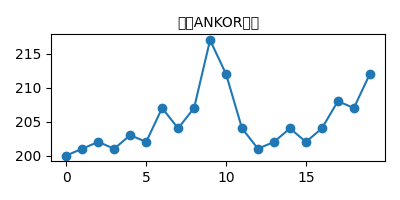
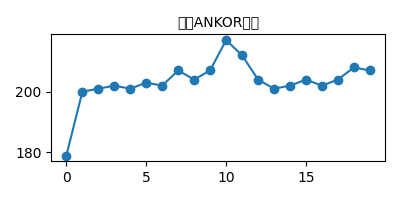
deploy: bb1060463c2d91ffb48bd77c552e17ba040cb615

diff --git a/reports/2026-03-05.html b/reports/2026-03-05.html
@@ -1,0 +1,48 @@
+
+    <html><head><meta charset='UTF-8'><title>2026-03-05 단타 분석 리포트</title>
+    <style>
+        body { font-family: Arial; padding: 30px; }
+        table { border-collapse: collapse; width: 100%; font-size: 13px; }
+        th, td { border: 1px solid #ccc; padding: 5px; text-align: center; }
+        img.chart { height: 80px; }
+    </style></head><body>
+    <h2>📊 오늘의 국내 증시 / 세계 경제 요약</h2><ul>
+        <li>KOSPI: 5,583.90</li>
+        <li>KOSDAQ: 1,116.41</li>
+        <li>환율 (USD/KRW): 1,464.60</li>
+        <li>환율 (CAD/KRW): 1,073.70</li>
+    </ul>
+
+    <h2>🪙 오늘의 코인 경제 요약</h2><ul>
+        <li>Bitcoin: $72198 (4.83% 변화)</li>
+        <li>Ethereum: $2117.75 (5.66% 변화)</li>
+    </ul>
+
+    <h2>🌍 주요 경제 뉴스 요약</h2><ul>
+    <li><a href='https://www.mk.co.kr/news/business/11979830' target='_blank'>[매일경제] 서울창경-경기창경 컨소시엄, ‘로컬창업 육성’ 주관기관 선정 글로벌과 LIPS 연계로 스케일업 가속화</a></li><li><a href='https://www.mk.co.kr/news/politics/11979829' target='_blank'>[매일경제] K자본시장특위, 스튜어드십코드 이행 실태 점검나서</a></li><li><a href='https://www.mk.co.kr/news/business/11979827' target='_blank'>[매일경제] “대충 둬도 예술이네”…LG 사운드 스위트, 소파 끝에 누워도 ‘명당’ [현장]</a></li><li><a href='#' target='_blank'>[한국경제] 현재 뉴스 없음</a></li><li><a href='#' target='_blank'>[한국경제] 현재 뉴스 없음</a></li><li><a href='#' target='_blank'>[한국경제] 현재 뉴스 없음</a></li><li><a href='#' target='_blank'>[연합뉴스] 현재 뉴스 없음</a></li><li><a href='#' target='_blank'>[연합뉴스] 현재 뉴스 없음</a></li><li><a href='#' target='_blank'>[연합뉴스] 현재 뉴스 없음</a></li><li><a href='https://www.bloomberg.com/news/articles/2026-03-04/record-market-meltdown-clouds-k-bank-debut-after-rare-korea-ipo' target='_blank'>[Bloomberg] K Bank Share Pop Fizzles in Debut on Volatile Korean Market</a></li><li><a href='https://www.bloomberg.com/news/articles/2026-03-05/korean-stocks-rebound-as-chipmakers-gain-after-record-selloff' target='_blank'>[Bloomberg] Korean Stocks Surge by Most Since 2008 in Roller Coaster Week</a></li><li><a href='https://www.bloomberg.com/news/videos/2026-03-05/why-india-is-in-a-bind-after-torpedo-strike-video' target='_blank'>[Bloomberg] Why a US Torpedo Strike Sinking an Iranian Warship Puts India in a Bind</a></li><li><a href='#' target='_blank'>[Reuters] 현재 뉴스 없음</a></li><li><a href='#' target='_blank'>[Reuters] 현재 뉴스 없음</a></li><li><a href='#' target='_blank'>[Reuters] 현재 뉴스 없음</a></li><li><a href='https://www.cnbc.com/2026/03/05/iran-conflict-duration-middle-east-regional-war-experts.html' target='_blank'>[CNBC] The U.S. insists the Iran conflict won't be a 'forever war.' Experts beg to differ</a></li><li><a href='https://www.cnbc.com/2026/03/05/private-credit-blackstone-blue-owl-kkr-carlyle-retail-wealth-investors-liquid.html' target='_blank'>[CNBC] Investors poured billions into private credit. Now many want their money back</a></li><li><a href='https://www.cnbc.com/2026/03/05/european-markets-stoxx-600-ftse-dax-cac-iran-latest.html' target='_blank'>[CNBC] European markets head for another mixed open as war unsettles traders</a></li></ul>
+    <h2>📈 추천 주식 30선</h2>
+    <table>
+    <tr>
+    <th>순위</th><th>종목</th><th>현재가</th><th>등락률</th><th>거래량</th>
+    <th>RSI</th><th>MACD</th><th>볼린저위치</th><th>스토캐스틱 %K</th><th>이격도</th>
+    <th>캔들패턴</th><th>추천</th><th>매수전 확인 포인트</th>
+    </tr>
+
+    <tr style='background:#f2f2f2; font-size:12px;'>
+    <td colspan='5'>지표 기준</td>
+    <td>과매도 <30 / 정상 50 / 과매수 >70</td>
+    <td>골든=상승 / 데드=하락</td>
+    <td>상단=강세 / 하단=반등</td>
+    <td><20 과매도 / >80 과매수</td>
+    <td>95~105 정상</td>
+    <td>망치=반등 / 역망치=하락</td>
+    <td colspan='2'>참고용</td>
+    </tr>
+    <tr><td>1</td><td><a href='https://finance.naver.com/item/main.nhn?code=550092' target='_blank'>N2 월간 레버리지 방위산업 Top5 ETN</a></td><td>279,480</td><td>35.00%</td><td>278,035</td><td>64.95</td><td style='background:#f8e6f8'>골든</td><td style='background:#e6f2ff'>상단 돌파</td><td style='background:none'>63.1</td><td style='background:#e6f2ff'>141.32</td><td style='background:none'>일반형</td><td style='background:#ffcccc'>🚀 Strong Buy</td><td>MACD 골든크로스 → 상승 전환 신호 / 이격도 과열 → 조정 우려</td></tr><tr><td>2</td><td><a href='https://finance.naver.com/item/main.nhn?code=488080' target='_blank'>TIGER 반도체TOP10레버리지</a></td><td>45,920</td><td>33.01%</td><td>45,905</td><td>59.77</td><td style='background:#f8e6f8'>골든</td><td style='background:none'>중앙 부근</td><td style='background:none'>60.7</td><td style='background:#e6f2ff'>119.02</td><td style='background:none'>일반형</td><td style='background:#ffcccc'>🚀 Strong Buy</td><td>MACD 골든크로스 → 상승 전환 신호 / 이격도 과열 → 조정 우려</td></tr><tr><td>3</td><td><a href='https://finance.naver.com/item/main.nhn?code=760013' target='_blank'>키움 레버리지 반도체TOP10 ETN</a></td><td>107,300</td><td>31.32%</td><td>107,300</td><td>59.24</td><td style='background:#f8e6f8'>골든</td><td style='background:none'>중앙 부근</td><td style='background:none'>58.2</td><td style='background:#e6f2ff'>117.04</td><td style='background:none'>일반형</td><td style='background:#ffe6f0'>✅ Buy</td><td>MACD 골든크로스 → 상승 전환 신호 / 이격도 과열 → 조정 우려</td></tr><tr><td>4</td><td><a href='https://finance.naver.com/item/main.nhn?code=700034' target='_blank'>하나 레버리지 K방산TOP10 ETN</a></td><td>29,045</td><td>31.10%</td><td>28,985</td><td>59.41</td><td style='background:#f8e6f8'>골든</td><td style='background:none'>중앙 부근</td><td style='background:none'>40.8</td><td style='background:#e6f2ff'>116.88</td><td style='background:none'>일반형</td><td style='background:#ffcccc'>🚀 Strong Buy</td><td>MACD 골든크로스 → 상승 전환 신호 / 이격도 과열 → 조정 우려</td></tr><tr><td>5</td><td><a href='https://finance.naver.com/item/main.nhn?code=272210' target='_blank'>한화시스템</a></td><td>150,800</td><td>30.00%</td><td>150,800</td><td>67.6</td><td style='background:#f8e6f8'>골든</td><td style='background:#e6f2ff'>상단 돌파</td><td style='background:none'>60.6</td><td style='background:#e6f2ff'>133.45</td><td style='background:none'>일반형</td><td style='background:#ffcccc'>🚀 Strong Buy</td><td>MACD 골든크로스 → 상승 전환 신호 / 이격도 과열 → 조정 우려</td></tr><tr><td>6</td><td><a href='https://finance.naver.com/item/main.nhn?code=45226K' target='_blank'>한화갤러리아우</a></td><td>7,670</td><td>30.00%</td><td>7,670</td><td>34.94</td><td style='background:#e6f2ff'>데드</td><td style='background:none'>중앙 부근</td><td style='background:none'>28.4</td><td style='background:#f8e6f8'>78.19</td><td style='background:none'>일반형</td><td>⚠ Hold</td><td>이격도 과매도 → 저점 접근</td></tr><tr><td>7</td><td><a href='https://finance.naver.com/item/main.nhn?code=085620' target='_blank'>미래에셋생명</a></td><td>13,570</td><td>29.98%</td><td>13,570</td><td>64.16</td><td style='background:#f8e6f8'>골든</td><td style='background:none'>중앙 부근</td><td style='background:none'>46.5</td><td style='background:#e6f2ff'>122.07</td><td style='background:none'>일반형</td><td style='background:#ffcccc'>🚀 Strong Buy</td><td>MACD 골든크로스 → 상승 전환 신호 / 이격도 과열 → 조정 우려</td></tr><tr><td>8</td><td><a href='https://finance.naver.com/item/main.nhn?code=500071' target='_blank'>신한 레버리지 코스닥 150 선물 ETN</a></td><td>57,225</td><td>29.88%</td><td>56,730</td><td>47.82</td><td style='background:#e6f2ff'>데드</td><td style='background:none'>중앙 부근</td><td style='background:none'>36.6</td><td style='background:#f8e6f8'>92.75</td><td style='background:none'>일반형</td><td>⚠ Hold</td><td>이격도 과매도 → 저점 접근</td></tr><tr><td>9</td><td><a href='https://finance.naver.com/item/main.nhn?code=152550' target='_blank'>한국ANKOR유전</a></td><td>470</td><td>29.83%</td><td>470</td><td style='background:#e6f2ff'>80.78</td><td style='background:#f8e6f8'>골든</td><td style='background:#e6f2ff'>상단 돌파</td><td style='background:#e6f2ff'>100.0</td><td style='background:#e6f2ff'>196.57</td><td style='background:none'>일반형</td><td style='background:#ffcccc'>🚀 Strong Buy</td><td>RSI 과매수 → 매도 주의 / MACD 골든크로스 → 상승 전환 신호 / 스토캐스틱 과매수 → 매도 신호 / 이격도 과열 → 조정 우려</td></tr><tr><td>10</td><td><a href='https://finance.naver.com/item/main.nhn?code=015260' target='_blank'>에이엔피</a></td><td>562</td><td>29.79%</td><td>562</td><td>57.13</td><td style='background:#f8e6f8'>골든</td><td style='background:none'>중앙 부근</td><td style='background:none'>47.6</td><td style='background:#e6f2ff'>117.38</td><td style='background:none'>일반형</td><td style='background:#ffcccc'>🚀 Strong Buy</td><td>MACD 골든크로스 → 상승 전환 신호 / 이격도 과열 → 조정 우려</td></tr><tr><td>11</td><td><a href='https://finance.naver.com/item/main.nhn?code=0100K0' target='_blank'>KODEX 방산TOP10레버리지</a></td><td>15,880</td><td>29.69%</td><td>15,880</td><td>58.9</td><td style='background:#f8e6f8'>골든</td><td style='background:none'>중앙 부근</td><td style='background:none'>34.6</td><td style='background:#e6f2ff'>116.41</td><td style='background:none'>일반형</td><td style='background:#ffcccc'>🚀 Strong Buy</td><td>MACD 골든크로스 → 상승 전환 신호 / 이격도 과열 → 조정 우려</td></tr><tr><td>12</td><td><a href='https://finance.naver.com/item/main.nhn?code=494310' target='_blank'>KODEX 반도체레버리지</a></td><td>72,400</td><td>29.25%</td><td>72,385</td><td>59.47</td><td style='background:#f8e6f8'>골든</td><td style='background:none'>중앙 부근</td><td style='background:none'>60.7</td><td style='background:#e6f2ff'>116.43</td><td style='background:none'>일반형</td><td style='background:#ffcccc'>🚀 Strong Buy</td><td>MACD 골든크로스 → 상승 전환 신호 / 이격도 과열 → 조정 우려</td></tr><tr><td>13</td><td><a href='https://finance.naver.com/item/main.nhn?code=580043' target='_blank'>KB 레버리지 KOSDAQ 150 선물 ETN</a></td><td>56,845</td><td>29.25%</td><td>56,295</td><td>46.98</td><td style='background:#e6f2ff'>데드</td><td style='background:none'>중앙 부근</td><td style='background:none'>43.5</td><td style='background:#f8e6f8'>94.13</td><td style='background:none'>일반형</td><td>⚠ Hold</td><td>이격도 과매도 → 저점 접근</td></tr><tr><td>14</td><td><a href='https://finance.naver.com/item/main.nhn?code=291630' target='_blank'>KIWOOM 코스닥150선물레버리지</a></td><td>8,395</td><td>28.86%</td><td>8,390</td><td>47.17</td><td style='background:#e6f2ff'>데드</td><td style='background:none'>중앙 부근</td><td style='background:none'>43.2</td><td style='background:#f8e6f8'>94.0</td><td style='background:#f8e6f8'>망치형(반등 신호)</td><td>⚠ Hold</td><td>이격도 과매도 → 저점 접근 / 캔들패턴 반등 신호</td></tr><tr><td>15</td><td><a href='https://finance.naver.com/item/main.nhn?code=278240' target='_blank'>RISE 코스닥150선물레버리지</a></td><td>18,820</td><td>28.64%</td><td>18,790</td><td>46.94</td><td style='background:#e6f2ff'>데드</td><td style='background:none'>중앙 부근</td><td style='background:none'>42.3</td><td style='background:#f8e6f8'>93.51</td><td style='background:none'>일반형</td><td>⚠ Hold</td><td>이격도 과매도 → 저점 접근</td></tr><tr><td>16</td><td><a href='https://finance.naver.com/item/main.nhn?code=306530' target='_blank'>HANARO 코스닥150선물레버리지</a></td><td>16,785</td><td>28.33%</td><td>16,785</td><td>46.9</td><td style='background:#e6f2ff'>데드</td><td style='background:none'>중앙 부근</td><td style='background:none'>43.9</td><td style='background:#f8e6f8'>93.63</td><td style='background:none'>일반형</td><td>⚠ Hold</td><td>이격도 과매도 → 저점 접근</td></tr><tr><td>17</td><td><a href='https://finance.naver.com/item/main.nhn?code=550097' target='_blank'>N2 레버리지 코스닥150 선물 ETN</a></td><td>40,745</td><td>27.91%</td><td>40,630</td><td>47.96</td><td style='background:#e6f2ff'>데드</td><td style='background:none'>중앙 부근</td><td style='background:none'>41.3</td><td style='background:#f8e6f8'>93.19</td><td style='background:none'>일반형</td><td>⚠ Hold</td><td>이격도 과매도 → 저점 접근</td></tr><tr><td>18</td><td><a href='https://finance.naver.com/item/main.nhn?code=570081' target='_blank'>한투 레버리지 코스닥150선물 ETN</a></td><td>56,850</td><td>27.72%</td><td>56,410</td><td>46.59</td><td style='background:#e6f2ff'>데드</td><td style='background:none'>중앙 부근</td><td style='background:none'>42.8</td><td style='background:#f8e6f8'>93.28</td><td style='background:none'>일반형</td><td>⚠ Hold</td><td>이격도 과매도 → 저점 접근</td></tr><tr><td>19</td><td><a href='https://finance.naver.com/item/main.nhn?code=700028' target='_blank'>하나 레버리지 반도체 ETN</a></td><td>165,505</td><td>27.31%</td><td>163,785</td><td>59.21</td><td style='background:#f8e6f8'>골든</td><td style='background:none'>중앙 부근</td><td style='background:none'>62.6</td><td style='background:#e6f2ff'>116.12</td><td style='background:none'>일반형</td><td style='background:#ffe6f0'>✅ Buy</td><td>MACD 골든크로스 → 상승 전환 신호 / 이격도 과열 → 조정 우려</td></tr><tr><td>20</td><td><a href='https://finance.naver.com/item/main.nhn?code=520056' target='_blank'>미래에셋 레버리지 코스닥150 선물 ETN</a></td><td>55,585</td><td>27.26%</td><td>55,585</td><td>46.34</td><td style='background:#e6f2ff'>데드</td><td style='background:none'>중앙 부근</td><td style='background:none'>40.0</td><td style='background:#f8e6f8'>92.28</td><td style='background:none'>일반형</td><td>⚠ Hold</td><td>이격도 과매도 → 저점 접근</td></tr><tr><td>21</td><td><a href='https://finance.naver.com/item/main.nhn?code=700017' target='_blank'>하나 레버리지 코스닥150 선물 ETN</a></td><td>56,620</td><td>27.26%</td><td>56,620</td><td>46.63</td><td style='background:#e6f2ff'>데드</td><td style='background:none'>중앙 부근</td><td style='background:none'>40.8</td><td style='background:#f8e6f8'>92.86</td><td style='background:none'>일반형</td><td>⚠ Hold</td><td>이격도 과매도 → 저점 접근</td></tr><tr><td>22</td><td><a href='https://finance.naver.com/item/main.nhn?code=233160' target='_blank'>TIGER 코스닥150 레버리지</a></td><td>18,500</td><td>26.80%</td><td>18,500</td><td>46.82</td><td style='background:#e6f2ff'>데드</td><td style='background:none'>중앙 부근</td><td style='background:none'>41.4</td><td style='background:#f8e6f8'>93.38</td><td style='background:none'>일반형</td><td>⚠ Hold</td><td>이격도 과매도 → 저점 접근</td></tr><tr><td>23</td><td><a href='https://finance.naver.com/item/main.nhn?code=0104G0' target='_blank'>PLUS K방산레버리지</a></td><td>15,950</td><td>26.69%</td><td>15,950</td><td>59.47</td><td style='background:#f8e6f8'>골든</td><td style='background:none'>중앙 부근</td><td style='background:none'>41.7</td><td style='background:#e6f2ff'>117.32</td><td style='background:none'>일반형</td><td style='background:#ffcccc'>🚀 Strong Buy</td><td>MACD 골든크로스 → 상승 전환 신호 / 이격도 과열 → 조정 우려</td></tr><tr><td>24</td><td><a href='https://finance.naver.com/item/main.nhn?code=530106' target='_blank'>삼성 레버리지 코스닥150 선물 ETN</a></td><td>56,955</td><td>26.40%</td><td>56,860</td><td>47.5</td><td style='background:#e6f2ff'>데드</td><td style='background:none'>중앙 부근</td><td style='background:none'>44.9</td><td style='background:#f8e6f8'>94.59</td><td style='background:none'>일반형</td><td>⚠ Hold</td><td>이격도 과매도 → 저점 접근</td></tr><tr><td>25</td><td><a href='https://finance.naver.com/item/main.nhn?code=233740' target='_blank'>KODEX 코스닥150레버리지</a></td><td>16,725</td><td>25.75%</td><td>16,720</td><td>46.97</td><td style='background:#e6f2ff'>데드</td><td style='background:none'>중앙 부근</td><td style='background:none'>42.2</td><td style='background:#f8e6f8'>93.67</td><td style='background:none'>일반형</td><td>⚠ Hold</td><td>이격도 과매도 → 저점 접근</td></tr><tr><td>26</td><td><a href='https://finance.naver.com/item/main.nhn?code=550089' target='_blank'>N2 월간 레버리지 코스피 200 선물 ETN</a></td><td>96,305</td><td>25.29%</td><td>93,235</td><td>56.44</td><td style='background:#e6f2ff'>데드</td><td style='background:none'>중앙 부근</td><td style='background:none'>44.9</td><td style='background:none'>104.28</td><td style='background:none'>일반형</td><td>⚠ Hold</td><td>중립: 추세 확인 필요</td></tr><tr><td>27</td><td><a href='https://finance.naver.com/item/main.nhn?code=003160' target='_blank'>디아이</a></td><td>33,800</td><td>24.72%</td><td>33,800</td><td>43.0</td><td style='background:#e6f2ff'>데드</td><td style='background:none'>중앙 부근</td><td style='background:none'>59.5</td><td style='background:none'>98.98</td><td style='background:none'>일반형</td><td>⚠ Hold</td><td>중립: 추세 확인 필요</td></tr><tr><td>28</td><td><a href='https://finance.naver.com/item/main.nhn?code=760023' target='_blank'>키움 레버리지 K방산 TOP5 ETN</a></td><td>32,875</td><td>24.67%</td><td>32,730</td><td>58.61</td><td style='background:#f8e6f8'>골든</td><td style='background:none'>중앙 부근</td><td style='background:none'>36.1</td><td style='background:#e6f2ff'>113.1</td><td style='background:none'>일반형</td><td style='background:#ffcccc'>🚀 Strong Buy</td><td>MACD 골든크로스 → 상승 전환 신호 / 이격도 과열 → 조정 우려</td></tr><tr><td>29</td><td><a href='https://finance.naver.com/item/main.nhn?code=760015' target='_blank'>키움 레버리지 바이오TOP10 ETN</a></td><td>21,710</td><td>24.41%</td><td>21,690</td><td>49.04</td><td style='background:#e6f2ff'>데드</td><td style='background:none'>중앙 부근</td><td style='background:none'>43.0</td><td style='background:none'>95.36</td><td style='background:#f8e6f8'>망치형(반등 신호)</td><td>⚠ Hold</td><td>캔들패턴 반등 신호</td></tr><tr><td>30</td><td><a href='https://finance.naver.com/item/main.nhn?code=261060' target='_blank'>TIGER 코스닥150IT</a></td><td>25,995</td><td>24.38%</td><td>25,465</td><td>57.71</td><td style='background:#e6f2ff'>데드</td><td style='background:#e6f2ff'>상단 돌파</td><td style='background:#e6f2ff'>90.1</td><td style='background:#e6f2ff'>110.63</td><td style='background:none'>일반형</td><td style='background:#ffe6f0'>✅ Buy</td><td>스토캐스틱 과매수 → 매도 신호 / 이격도 과열 → 조정 우려</td></tr></table>
+    <h2>🕗 장전 시간외 거래 전략 (08:30~08:40)</h2>
+    <ul>
+        <li><b>① 전일 고가 이상 시가 + 거래량 증가:</b> 갭상승 후 눌림 매수 가능성 ↑</li>
+        <li><b>② 시가가 전일 종가 이하 + 거래량 미미:</b> 매수 보류</li>
+        <li><b>③ 시가 = 전일 종가 ±1% + 거래량 급증:</b> 돌파 가능성 높음</li>
+    </ul>
+    <h2>🪙 추천 코인 20선</h2><table><tr><th>이름</th><th>기호</th><th>가격</th><th>등락률</th><th>거래량</th><th>점수</th><th>추천</th><th>아이콘</th></tr><tr><td><a href='https://coinmarketcap.com/currencies/tether/' target='_blank'>Tether</a></td><td>USDT</td><td>$1.00</td><td>0.01%</td><td>$123024.0M</td><td>3</td><td>✅ Buy</td><td><img src='https://coin-images.coingecko.com/coins/images/325/large/Tether.png?1696501661' width='25'></td></tr><tr><td><a href='https://coinmarketcap.com/currencies/bitcoin/' target='_blank'>Bitcoin</a></td><td>BTC</td><td>$72,212.00</td><td>4.85%</td><td>$79929.6M</td><td>3</td><td>✅ Buy</td><td><img src='https://coin-images.coingecko.com/coins/images/1/large/bitcoin.png?1696501400' width='25'></td></tr><tr><td><a href='https://coinmarketcap.com/currencies/ethereum/' target='_blank'>Ethereum</a></td><td>ETH</td><td>$2,117.48</td><td>5.65%</td><td>$33605.0M</td><td>5</td><td>🚀 Strong Buy</td><td><img src='https://coin-images.coingecko.com/coins/images/279/large/ethereum.png?1696501628' width='25'></td></tr><tr><td><a href='https://coinmarketcap.com/currencies/usdc/' target='_blank'>USDC</a></td><td>USDC</td><td>$1.00</td><td>0.00%</td><td>$10578.3M</td><td>3</td><td>✅ Buy</td><td><img src='https://coin-images.coingecko.com/coins/images/6319/large/USDC.png?1769615602' width='25'></td></tr><tr><td><a href='https://coinmarketcap.com/currencies/solana/' target='_blank'>Solana</a></td><td>SOL</td><td>$90.61</td><td>4.73%</td><td>$6708.7M</td><td>3</td><td>✅ Buy</td><td><img src='https://coin-images.coingecko.com/coins/images/4128/large/solana.png?1718769756' width='25'></td></tr><tr><td><a href='https://coinmarketcap.com/currencies/xrp/' target='_blank'>XRP</a></td><td>XRP</td><td>$1.42</td><td>3.79%</td><td>$4817.4M</td><td>3</td><td>✅ Buy</td><td><img src='https://coin-images.coingecko.com/coins/images/44/large/xrp-symbol-white-128.png?1696501442' width='25'></td></tr><tr><td><a href='https://coinmarketcap.com/currencies/dogecoin/' target='_blank'>Dogecoin</a></td><td>DOGE</td><td>$0.10</td><td>7.25%</td><td>$2910.7M</td><td>5</td><td>🚀 Strong Buy</td><td><img src='https://coin-images.coingecko.com/coins/images/5/large/dogecoin.png?1696501409' width='25'></td></tr><tr><td><a href='https://coinmarketcap.com/currencies/usd1/' target='_blank'>USD1</a></td><td>USD1</td><td>$1.00</td><td>-0.03%</td><td>$2878.2M</td><td>2</td><td>⚠ Watch</td><td><img src='https://coin-images.coingecko.com/coins/images/54977/large/USD1_1000x1000_transparent.png?1749297002' width='25'></td></tr><tr><td><a href='https://coinmarketcap.com/currencies/bnb/' target='_blank'>BNB</a></td><td>BNB</td><td>$651.24</td><td>2.19%</td><td>$1662.2M</td><td>3</td><td>✅ Buy</td><td><img src='https://coin-images.coingecko.com/coins/images/825/large/bnb-icon2_2x.png?1696501970' width='25'></td></tr><tr><td><a href='https://coinmarketcap.com/currencies/cardano/' target='_blank'>Cardano</a></td><td>ADA</td><td>$0.27</td><td>3.73%</td><td>$916.0M</td><td>1</td><td>⚠ Watch</td><td><img src='https://coin-images.coingecko.com/coins/images/975/large/cardano.png?1696502090' width='25'></td></tr><tr><td><a href='https://coinmarketcap.com/currencies/sui/' target='_blank'>Sui</a></td><td>SUI</td><td>$0.95</td><td>4.60%</td><td>$774.5M</td><td>1</td><td>⚠ Watch</td><td><img src='https://coin-images.coingecko.com/coins/images/26375/large/sui-ocean-square.png?1727791290' width='25'></td></tr><tr><td><a href='https://coinmarketcap.com/currencies/tron/' target='_blank'>TRON</a></td><td>TRX</td><td>$0.28</td><td>0.54%</td><td>$691.0M</td><td>1</td><td>⚠ Watch</td><td><img src='https://coin-images.coingecko.com/coins/images/1094/large/tron-logo.png?1696502193' width='25'></td></tr><tr><td><a href='https://coinmarketcap.com/currencies/first-digital-usd/' target='_blank'>First Digital USD</a></td><td>FDUSD</td><td>$1.00</td><td>0.09%</td><td>$603.2M</td><td>1</td><td>⚠ Watch</td><td><img src='https://coin-images.coingecko.com/coins/images/31079/large/FDUSD_icon_black.png?1731097953' width='25'></td></tr><tr><td><a href='https://coinmarketcap.com/currencies/pax-gold/' target='_blank'>PAX Gold</a></td><td>PAXG</td><td>$5,171.69</td><td>-0.18%</td><td>$591.3M</td><td>0</td><td>⚠ Watch</td><td><img src='https://coin-images.coingecko.com/coins/images/9519/large/paxgold.png?1696509604' width='25'></td></tr><tr><td><a href='https://coinmarketcap.com/currencies/pepe/' target='_blank'>Pepe</a></td><td>PEPE</td><td>$0.00</td><td>2.56%</td><td>$566.5M</td><td>1</td><td>⚠ Watch</td><td><img src='https://coin-images.coingecko.com/coins/images/29850/large/pepe-token.jpeg?1696528776' width='25'></td></tr><tr><td><a href='https://coinmarketcap.com/currencies/chainlink/' target='_blank'>Chainlink</a></td><td>LINK</td><td>$9.23</td><td>4.54%</td><td>$530.9M</td><td>1</td><td>⚠ Watch</td><td><img src='https://coin-images.coingecko.com/coins/images/877/large/Chainlink_Logo_500.png?1760023405' width='25'></td></tr><tr><td><a href='https://coinmarketcap.com/currencies/tether-gold/' target='_blank'>Tether Gold</a></td><td>XAUT</td><td>$5,129.47</td><td>-0.16%</td><td>$491.4M</td><td>0</td><td>⚠ Watch</td><td><img src='https://coin-images.coingecko.com/coins/images/10481/large/Tether_Gold.png?1696510471' width='25'></td></tr><tr><td><a href='https://coinmarketcap.com/currencies/aave/' target='_blank'>Aave</a></td><td>AAVE</td><td>$115.29</td><td>3.26%</td><td>$453.3M</td><td>1</td><td>⚠ Watch</td><td><img src='https://coin-images.coingecko.com/coins/images/12645/large/aave-token-round.png?1720472354' width='25'></td></tr><tr><td><a href='https://coinmarketcap.com/currencies/avalanche/' target='_blank'>Avalanche</a></td><td>AVAX</td><td>$9.39</td><td>2.80%</td><td>$451.7M</td><td>1</td><td>⚠ Watch</td><td><img src='https://coin-images.coingecko.com/coins/images/12559/large/Avalanche_Circle_RedWhite_Trans.png?1696512369' width='25'></td></tr><tr><td><a href='https://coinmarketcap.com/currencies/bitcoin-cash/' target='_blank'>Bitcoin Cash</a></td><td>BCH</td><td>$458.79</td><td>3.59%</td><td>$433.6M</td><td>1</td><td>⚠ Watch</td><td><img src='https://coin-images.coingecko.com/coins/images/780/large/bitcoin-cash-circle.png?1696501932' width='25'></td></tr></table></body></html>

diff --git a/index.html b/index.html
@@ -43,24 +43,24 @@
             <div class="card p-4">
                 <div class="section-title">📊 오늘의 국내 증시 / 세계 경제 요약</div>
                 <ul>
-                    <li>KOSPI: 5,093.54</li>
-                    <li>KOSDAQ: 978.44</li>
-                    <li>환율 (USD/KRW): 1,470.70</li>
-                    <li>환율 (CAD/KRW): 1,084.65</li>
+                    <li>KOSPI: 5,583.90</li>
+                    <li>KOSDAQ: 1,116.41</li>
+                    <li>환율 (USD/KRW): 1,464.80</li>
+                    <li>환율 (CAD/KRW): 1,073.84</li>
                 </ul>
                 <h5 class="mt-3">🪙 오늘의 코인 경제 요약</h5>
                 <ul>
-                    <li>Bitcoin: $68814 (0.91% 변화)</li>
-                    <li>Ethereum: $1990.24 (-0.34% 변화)</li>
+                    <li>Bitcoin: $72212 (4.85% 변화)</li>
+                    <li>Ethereum: $2117.47 (5.65% 변화)</li>
                 </ul>
                 <h5 class="mt-3">🌍 주요 경제 뉴스</h5>
-                <ul><li><a href="https://www.mk.co.kr/news/economy/11978588" target="_blank">[매일경제] [포토] 불안한 환율</a></li><li><a href="https://www.mk.co.kr/news/economy/11978587" target="_blank">[매일경제] [포토] 요동치는 환율</a></li><li><a href="https://www.mk.co.kr/news/stock/11978584" target="_blank">[매일경제] 트럼프는 이란만 공격한게 아니었다…중동발 폭탄 맞은 아시아 증시 ‘와르르’</a></li><li><a href="#" target="_blank">[한국경제] 현재 뉴스 없음</a></li><li><a href="#" target="_blank">[한국경제] 현재 뉴스 없음</a></li><li><a href="#" target="_blank">[한국경제] 현재 뉴스 없음</a></li><li><a href="#" target="_blank">[연합뉴스] 현재 뉴스 없음</a></li><li><a href="#" target="_blank">[연합뉴스] 현재 뉴스 없음</a></li><li><a href="#" target="_blank">[연합뉴스] 현재 뉴스 없음</a></li><li><a href="https://www.bloomberg.com/news/articles/2026-03-04/bayer-forecasts-flat-2026-profits-amid-roundup-settlement-effort" target="_blank">[Bloomberg] Bayer Sees Flat 2026 Profits Amid Roundup Settlement Efforts</a></li><li><a href="https://www.bloomberg.com/news/articles/2026-03-04/rbi-creates-intervention-space-as-rupee-faces-renewed-strain" target="_blank">[Bloomberg] RBI Creates Intervention Space as Rupee Faces Renewed Strain</a></li><li><a href="https://www.bloomberg.com/news/live-blog/2026-03-04/iran-latest" target="_blank">[Bloomberg] Asia Markets Meltdown Worsens as Middle East War Rattles Investors</a></li><li><a href="#" target="_blank">[Reuters] 현재 뉴스 없음</a></li><li><a href="#" target="_blank">[Reuters] 현재 뉴스 없음</a></li><li><a href="#" target="_blank">[Reuters] 현재 뉴스 없음</a></li><li><a href="https://www.cnbc.com/2026/03/04/iran-israel-us-war-middle-east-conflict-oil-gas-lng-surge-central-banks-inflation-risk.html" target="_blank">[CNBC] Middle East conflict poses fresh test to central banks as oil shock fuels inflation</a></li><li><a href="https://www.cnbc.com/2026/03/04/asia-markets-hang-seng-index-kospi-nikkei-225.html" target="_blank">[CNBC] South Korea's Kospi plunges 12% amid broader declines in Asia markets as Iran conflict rages</a></li><li><a href="https://www.cnbc.com/2026/03/03/trump-iran-shifting-narrative-us-war.html" target="_blank">[CNBC] Trump administration offers shifting narrative for U.S. war in Iran as Democrats pounce</a></li></ul>
+                <ul><li><a href="https://www.mk.co.kr/news/business/11979830" target="_blank">[매일경제] 서울창경-경기창경 컨소시엄, ‘로컬창업 육성’ 주관기관 선정 글로벌과 LIPS 연계로 스케일업 가속화</a></li><li><a href="https://www.mk.co.kr/news/politics/11979829" target="_blank">[매일경제] K자본시장특위, 스튜어드십코드 이행 실태 점검나서</a></li><li><a href="https://www.mk.co.kr/news/business/11979827" target="_blank">[매일경제] “대충 둬도 예술이네”…LG 사운드 스위트, 소파 끝에 누워도 ‘명당’ [현장]</a></li><li><a href="#" target="_blank">[한국경제] 현재 뉴스 없음</a></li><li><a href="#" target="_blank">[한국경제] 현재 뉴스 없음</a></li><li><a href="#" target="_blank">[한국경제] 현재 뉴스 없음</a></li><li><a href="#" target="_blank">[연합뉴스] 현재 뉴스 없음</a></li><li><a href="#" target="_blank">[연합뉴스] 현재 뉴스 없음</a></li><li><a href="#" target="_blank">[연합뉴스] 현재 뉴스 없음</a></li><li><a href="https://www.bloomberg.com/news/articles/2026-03-04/record-market-meltdown-clouds-k-bank-debut-after-rare-korea-ipo" target="_blank">[Bloomberg] K Bank Share Pop Fizzles in Debut on Volatile Korean Market</a></li><li><a href="https://www.bloomberg.com/news/articles/2026-03-05/korean-stocks-rebound-as-chipmakers-gain-after-record-selloff" target="_blank">[Bloomberg] Korean Stocks Surge by Most Since 2008 in Roller Coaster Week</a></li><li><a href="https://www.bloomberg.com/news/videos/2026-03-05/why-india-is-in-a-bind-after-torpedo-strike-video" target="_blank">[Bloomberg] Why a US Torpedo Strike Sinking an Iranian Warship Puts India in a Bind</a></li><li><a href="#" target="_blank">[Reuters] 현재 뉴스 없음</a></li><li><a href="#" target="_blank">[Reuters] 현재 뉴스 없음</a></li><li><a href="#" target="_blank">[Reuters] 현재 뉴스 없음</a></li><li><a href="https://www.cnbc.com/2026/03/05/iran-conflict-duration-middle-east-regional-war-experts.html" target="_blank">[CNBC] The U.S. insists the Iran conflict won't be a 'forever war.' Experts beg to differ</a></li><li><a href="https://www.cnbc.com/2026/03/05/private-credit-blackstone-blue-owl-kkr-carlyle-retail-wealth-investors-liquid.html" target="_blank">[CNBC] Investors poured billions into private credit. Now many want their money back</a></li><li><a href="https://www.cnbc.com/2026/03/05/european-markets-stoxx-600-ftse-dax-cac-iran-latest.html" target="_blank">[CNBC] European markets head for another mixed open as war unsettles traders</a></li></ul>
             </div>
 
             <!-- 오늘의 리포트 -->
             <div class="card p-4">
                 <div class="section-title">📰 오늘의 리포트</div>
-                <a href="reports/2026-03-04.html" class="btn btn-success btn-lg w-100">📂 2026-03-04 리포트 열기</a>
+                <a href="reports/2026-03-05.html" class="btn btn-success btn-lg w-100">📂 2026-03-05 리포트 열기</a>
             </div>
 
             <!-- 이전 리포트 목록 -->
